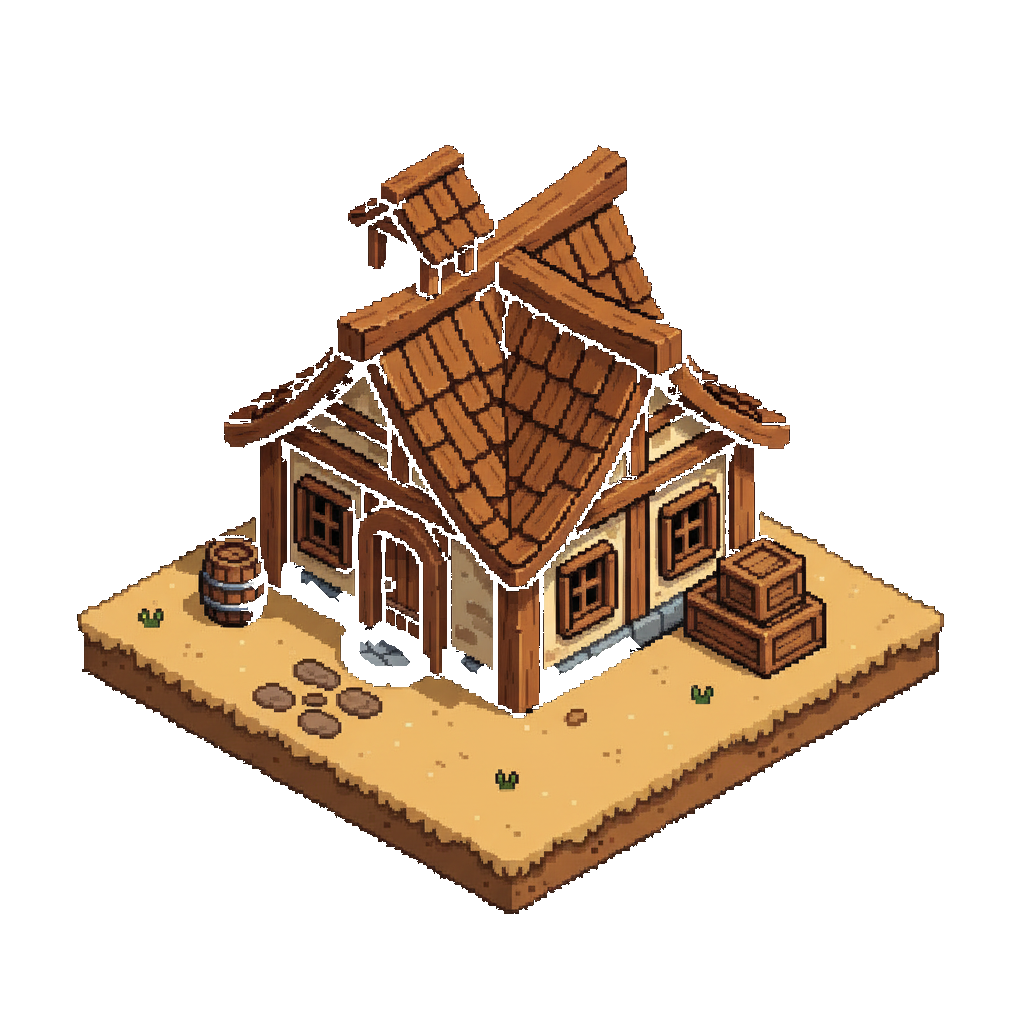
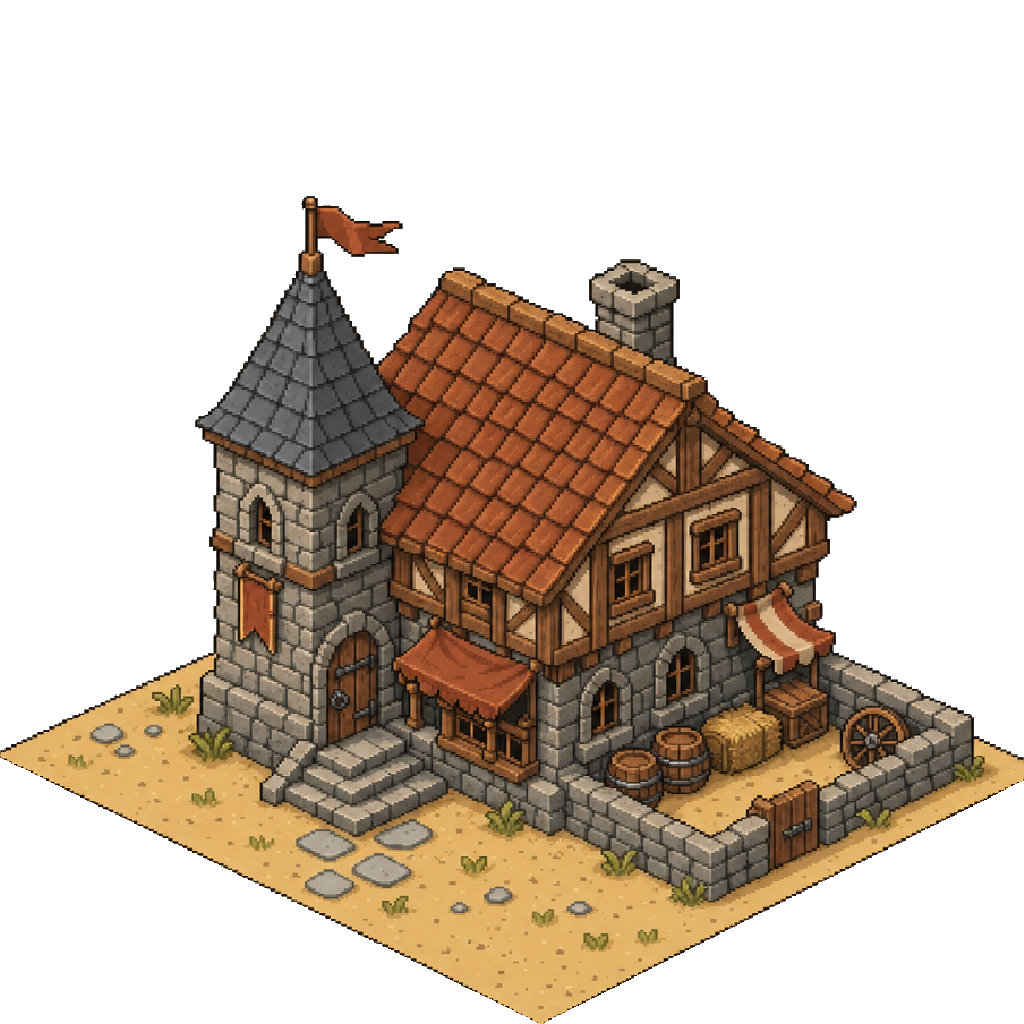
fix(sprites): the town centre's lot is 30 deg, plinth-less and cracked; ship a grid-exact hall
The shipped building-pixel-townHall-1.png measured, from the PNG alone:

  - lot lower edges at dx/dy 1.748 (29.78 deg) against the city grid's 2.0
    (26.57 deg = TILE_D / TILE_W / 2), i.e. a 13% too-tall sand diamond for the
    cell it stands on;
  - a 48-row dark soil slab under the sand's front edges = 4.05 px of pedestal
    at the drawn size, which also lifts the sand plane ~4 px above the cell's
    south vertex;
  - alpha cracked into 49 opaque fragments with 2208 interior transparent
    pixels (biggest fragment 87% of the ink) -- the see-through slits reported
    in game;
  - ground diamond 84.7% of the 1024 canvas with a 110-row bottom pad, against
    the grid-exact family's 98.4% / 0 rows.

Replacement art (openai/gpt-5.4-image-2, prompt towncenter-C-towerHall-gpt.txt,
stone corner tower with turret and banner over a stone/timber hall), taken
through fit-lot-to-grid.mjs then grid-exact-lot.mjs. Measured after:

  edge slope 0.520, bottom pad 0 rows, ground diamond 100% of the canvas,
  10 rows of silhouette below the ground plane, 1 opaque component, 0 enclosed
  holes, 0 partial-alpha pixels.

The regenerated anchor table follows the art: pixel.townHall.1 9 -> 0, because
the grid-exact lot needs no bottom-pad compensation -- the sand's south vertex
is the canvas' last row, so the engine plants it on the cell's south vertex with
zero offset.

Gates: npm run gen:building-anchors:check, gen:sprite-keys:check and
[…]

diff --git a/design/building-pixel-towncenter-wave/README.md b/design/building-pixel-towncenter-wave/README.md
@@ -1,0 +1,128 @@
+# Town-centre sprite wave — 2026-10-25 (replaces `building-pixel-townHall-1.png`)
+
+Replacement for the settlers town centre's sprite. The shipped asset was reported
+as see-through in game; measuring it shows three defects at once, all of them
+reproducible from the PNG alone:
+
+| Defect | Measurement on the shipped file | Its in-game consequence |
+|---|---|---|
+| The lot is drawn at 30°, the grid is 2:1 | lower-edge slope dx/dy **1.748 (29.78°)** vs the grid's **2.0 (26.57°)** | the sand diamond is 13% too tall for the cell it stands on |
+| A soil slab under the front edges | a **48-row** dark band = **4.05 px** at the drawn size | a 4px pedestal, and the sand plane floats ~4px above the cell's south vertex |
+| Alpha cracked into slits | **49 opaque fragments**, 2 208 interior transparent pixels, biggest fragment 87% of the ink | grey map shows through the walls and roof at game size |
+| The lot does not fill its canvas | ground diamond **84.7%** of the canvas, bottom pad **110 rows** | the footprint the sprite *covers* is far smaller than the 2x2 block it occupies |
+
+The standard the replacement is authored to is the repo's own grid-exact family
+(the five `building-pixel-farm<Style>-1.png` plots) as encoded in
+`test/townCenterSprite.e2e.ts` (the audit card's suite): edge slope 0.5 ±0.06,
+bottom pad ≤2 rows, ground diamond ≥95% of the canvas, ≤16 rows of silhouette
+below the ground plane, anchor offset consistent with the sprite's own pad.
+
+## Prompts
+
+Four prompts, four models, seven generations (two rounds). Round 1 asked for the
+lot at 2:1 with a magenta guide diamond stroked over the exact footprint in the
+input image; round 2 additionally said the lot is *half as tall as it is wide*
+and that no vertical face may be drawn under the sand.
+
+| Prompt | Model | Round | Candidate |
+|---|---|---|---|
+| `towncenter-A-timberHall-pro.txt` | `google/gemini-3-pro-image` | 1 + 2 | A, A2 |
+| (same prompt) | `google/gemini-3.1-flash-image` | 1 + 2 | B, B2 |
+| `towncenter-C-towerHall-gpt.txt` | `openai/gpt-5.4-image-2` | 1 | C |
+| (A2 prompt) | `openai/gpt-5.4-image-2` | 2 | C2 |
+| `towncenter-D-thatchHall-flash.txt` | `google/gemini-2.5-flash-image` | 1 | D |
+
+Reference images: the asset to redraw (`building-pixel-townHall-1.png` with the
+magenta guide stroked on it) first, `building-pixel-house-1.png` as the style
+anchor second.
+
+**The model does not obey the geometry, in either round.** All seven generations
+came back at **29.1–30.7°**, and six of the seven added a 40–56 row soil slab
+anyway (the "half as tall as it is wide" wording moved it by ~0.4°). Two
+conclusions for the sprite skill: the lot's angle is a post-pass, never a prompt;
+and "flat lot" has to be enforced by clearing the mask below the sand's edges,
+not by asking.
+
+Backgrounds came back as a solid light gray (194–225), never a checkerboard, so
+`strip-checker-any.mjs` (border-tone clustering, one tone) cleaned all seven to a
+single opaque component with 0 enclosed holes and 0 partial-alpha pixels.
+
+## Pipeline
+
+```
+gen (openrouter-image.mjs) -> raw-*.png            1024x1024, solid gray bg
+  strip-checker-any.mjs    -> alpha-*.png            real alpha, 1 component, 0 holes
+  repair-alpha.mjs         -> (no-op: already clean)
+  tools/sprites/fit-lot-to-grid.mjs   -> fit-*.png   sand edge -> exactly 2:1, slab cleared
+  tools/sprites/grid-exact-lot.mjs    -> gx-*.png    farm-family convention: diamond spans
+                                                     the canvas, south vertex on the last row
+```
+
+`fit-lot-to-grid.mjs` measures the **sand's** lower edges (not the alpha
+silhouette, which the slab contaminates), scales the image vertically by
+`0.5 / measured` about the sand's south vertex, then clears the mask below the
+fitted edges. The vertical-only scale keeps the drawn width and the sprite's
+horizontal placement, so the result is still a drop-in for the asset it replaces.
+Direction matters: `sy = target / measured` (0.88 here); the inverse stretches the
+sprite and reports 33° instead of 27°.
+
+`grid-exact-lot.mjs` then does one uniform scale (`1024 / diamondWidth`, 1.11–1.19)
+about the south vertex and centres it, which is what makes the engine's anchor
+maths degenerate to 0.
+
+## Candidates (all measured with the audit suite's own formulas)
+
+| Candidate | Model | A1 slope (0.5±0.06) | A2 pad (≤2) | A3 diamond width (≥95%) | A4 below ground (≤16) | alpha |
+|---|---|---|---|---|---|---|
+| A | gemini-3-pro-image r1 | 0.529 ✓ | 0 ✓ | 100% ✓ | 15 ✓ | 1 comp, clean |
+| A2 | gemini-3-pro-image r2 | 0.531 ✓ | 0 ✓ | 100% ✓ | **16 (at the limit)** | 1 comp, clean |
+| B | gemini-3.1-flash r1 | 0.525 ✓ | 0 ✓ | 100% ✓ | 13 ✓ | 1 comp, clean |
+| B2 | gemini-3.1-flash r2 | 0.533 ✓ | 0 ✓ | 100% ✓ | **17 ✗** | 1 comp, clean |
+| **C** | **gpt-5.4-image-2 r1** | **0.520 ✓** | **0 ✓** | **100% ✓** | **10 ✓** | **1 comp, 0 holes** |
+| C2 | gpt-5.4-image-2 r2 | 0.498 ✓ | 0 ✓ | 100% ✓ | -1 ✓ | 1 comp, clean |
+| D | gemini-2.5-flash r1 | 0.529 ✓ | 0 ✓ | 100% ✓ | 15 ✓ | 1 comp, clean |
+
+Picked: **C** (`openai/gpt-5.4-image-2`, prompt `towncenter-C-towerHall-gpt.txt`) —
+a stone corner tower with a slate turret and banner, timber-framed jettied wing,
+tiled roof, arched windows, walled yard with barrels, hay and a cart wheel.
+
+Why: it is the only finalist whose silhouette reads unmistakably as the
+settlement's civic landmark at the drawn 86 px (the tower + banner); its lot is
+already 90% of the canvas before scaling, so the grid-exact pass resamples it by
+only 1.11; it has the largest margin on A4 (10 vs A2's borderline 16 and B2's
+failing 17); and it carries the richest material mix (stone/timber/slate/tile).
+Its weakness is grain: the pixel blocks are finer than the Gemini-made set's, so
+next to the neighbouring sprites it reads slightly higher-resolution.
+
+Runner-up A2 keeps the shipped asset's silhouette family (timber cottage hall,
+chunky pixels matching the set). Swap with:
+
+```
+cp .agentboard/settlers-reports/towncenter-wip/gx-A2.png src/resources/buildings/building-pixel-townHall-1.png
+npm run gen:building-anchors && npm run validate-assets
+```
+
+## The 2x2 coverage finding (not fixable from the art)
+
+`test/townCenterSprite.e2e.ts` check **B4** wants the rendered ground diamond to
+cover ≥95% of the footprint: `>= 0.95 * 2 * TILE_W` = 182.4 px of the 192 px
+block. The engine draws every pixel building with `sizing: { kind: "fitWidth",
+hexSizeMul: 0.9 }` (`src/render/assetDescriptors.ts`), so the town hall's whole
+canvas — and with it any ground diamond it can contain — renders **86.4 px**
+wide: **45%** of its block. No 1024 px canvas can change that.
+
+With a grid-exact asset the fix degenerates to one line in the descriptor
+(`hexSizeMul: 0.9 -> 2.0` for the 2x2 town hall): drawn width becomes 192 px = the
+block exactly, coverage 100%, and because the grid-exact art's ground diamond
+spans the canvas with its base on the last row and the anchor offset is 0, the
+base lands on the footprint's south vertex with no compensation at all (B3/B5
+pass). Note the suite's own calibration reference does not meet B4 either — the
+farm plots render at 96 px over a 192 px footprint, 50% — so B4's threshold and
+its stated reference contradict each other.
+
+Reproduce the numbers:
+
+```
+node tools/sprites/fit-lot-to-grid.mjs <alpha.png> <fit.png> [report.json]
+node tools/sprites/grid-exact-lot.mjs <fit.png> <gx.png>      # prints the A1-A5 table
+```
